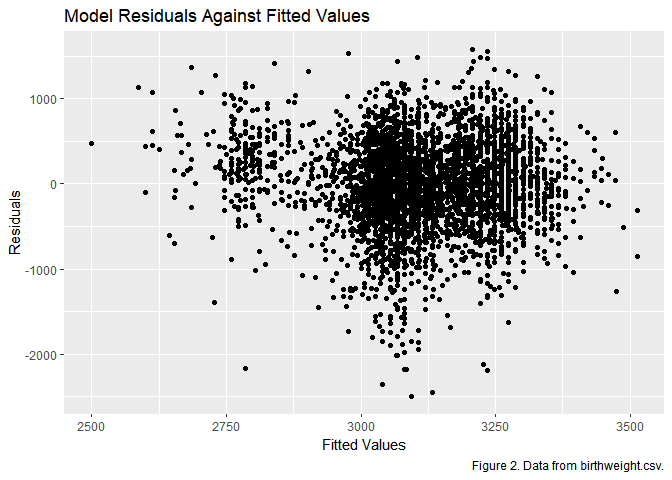
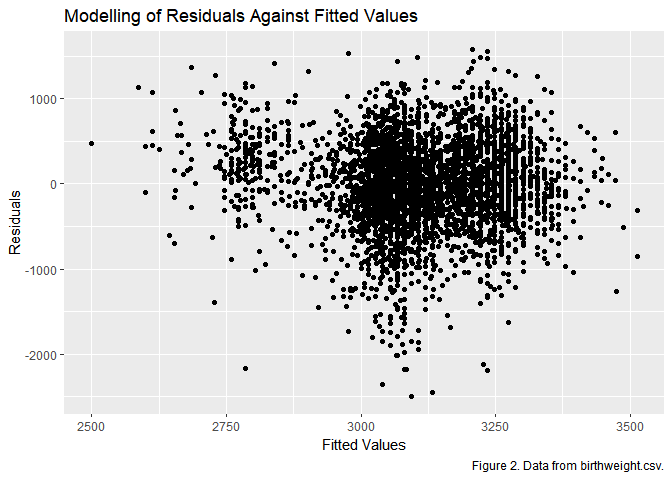
Doing a safety commit. R is uable to find the crossv_mc function.

Changed region(s): [[0.1562, 0.0, 0.625, 0.0625]]

diff --git a/P8105_HW6_BJL2150.md b/P8105_HW6_BJL2150.md
@@ -436,7 +436,7 @@ birthweight_clean %>%
   modelr::add_predictions(bw_linear_one) %>%
   ggplot(aes(x = pred, y = resid)) + geom_point() +
     labs(
-    title = "Model Residuals Against Fitted Values",
+    title = "Modelling of Residuals Against Fitted Values",
     x = "Fitted Values",
     y = "Residuals",
     caption = "Figure 2. Data from birthweight.csv."
@@ -483,8 +483,18 @@ birthweight_clean %>%
   ggplot(aes(x = pred, y = resid)) + geom_point()
 ```
 
-![](P8105_HW6_BJL2150_files/figure-markdown_github/unnamed-chunk-9-2.png)
+![](P8105_HW6_BJL2150_files/figure-markdown_github/unnamed-chunk-9-2.png) validation\_df = crossv\_mc(birthweight\_clean, 100)
 
-Comparison\_df = birthweight\_clean %&gt;% gather\_predictions(bw\_linear\_one, length\_ges\_linear, linear\_interaction) %&gt;% mutate(model = fct\_inorder(model)) %&gt;% ggplot(aes(x = pred, y = resid())) + geom\_point() + geom\_line(aes(y = pred), color = "red") + facet\_wrap(~model)
+cv\_df = crossv\_mc(nonlin\_df, 100)
 
-\`\`\`
+
+
+
+
+    Comparison_df = birthweight_clean %>% 
+      gather_predictions(bw_linear_one, length_ges_linear, linear_interaction) %>% 
+      mutate(model = fct_inorder(model)) %>% 
+      ggplot(aes(x = pred, y = resid())) + 
+      geom_point() + 
+      geom_line(aes(y = pred), color = "red") + 
+      facet_wrap(~model)
